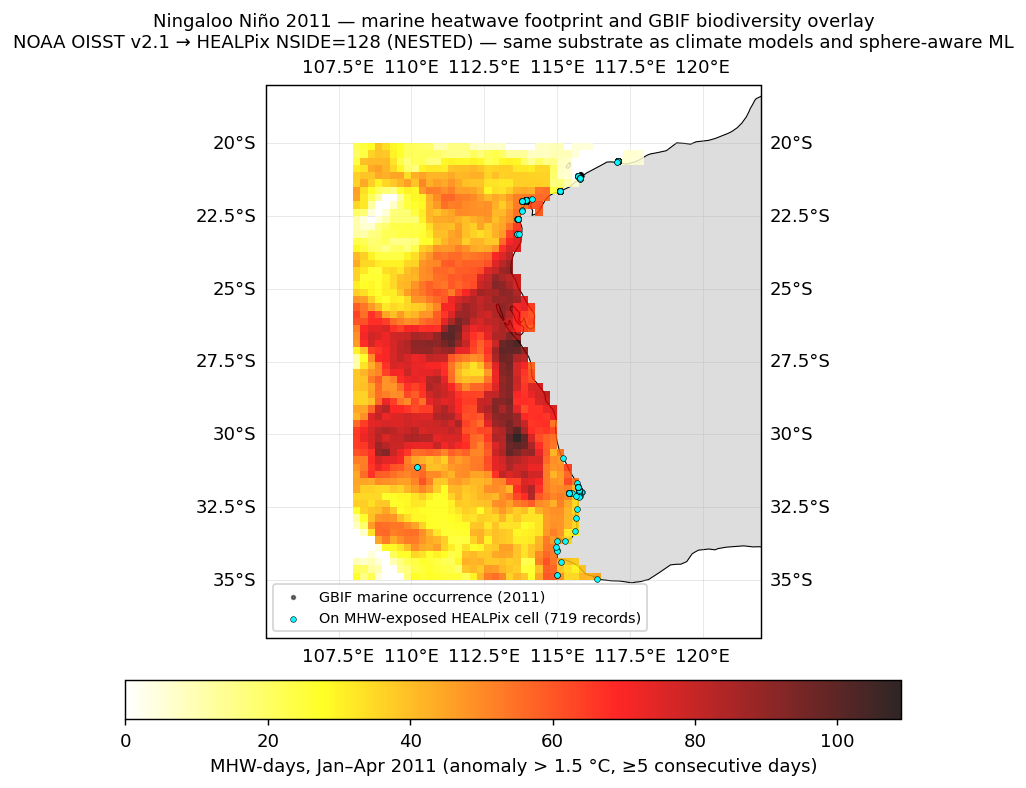
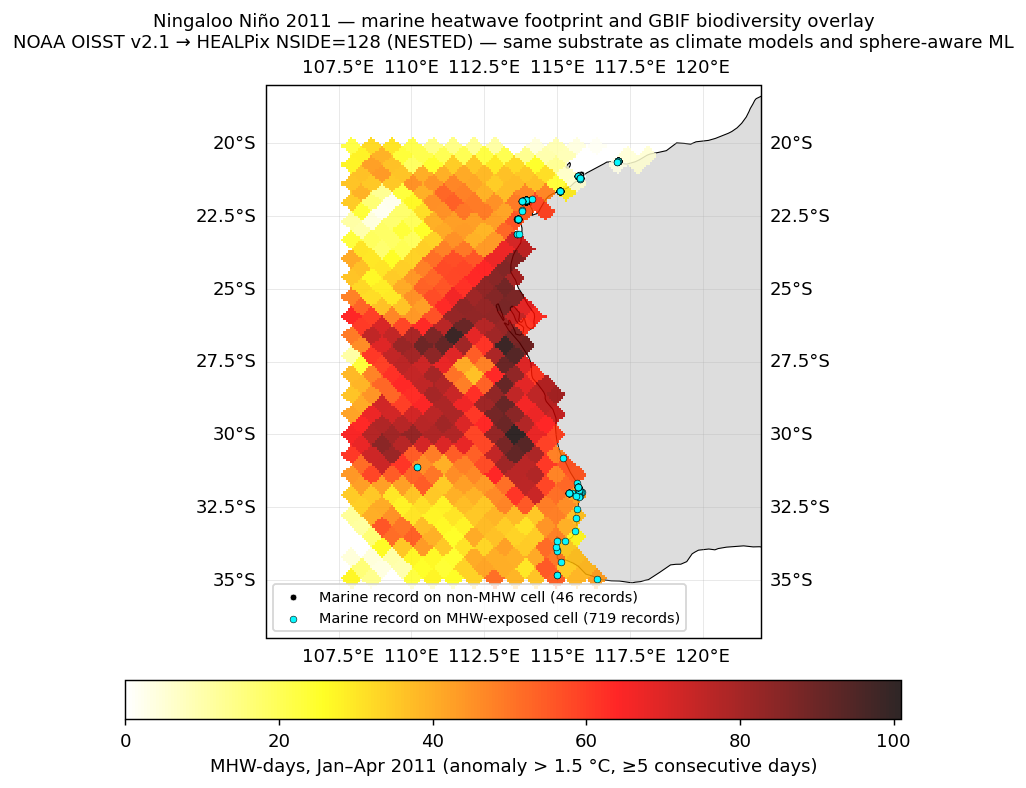
notebook 05: render second figure on the actual HEALPix substrate
Two related fixes Anne flagged:

(1) The second figure ("MHW footprint and GBIF biodiversity overlay")
was titled "NOAA OISST v2.1 -> HEALPix NSIDE=128 (NESTED)" but the
colour field was actually the OISST 0.25 deg lat-lon raster
(mhw_days_per_cell), not the HEALPix-aggregated field
(mhw_days_hp). Switch to the same hp.ang2pix high-res-mesh render
the first figure already uses, so each HEALPix cell stamps as a
discrete block and the visualisation honestly matches the title.

(2) The point legend was misleading. All 765 records were drawn as
small black dots in layer 1, then 719 of them were drawn over as
larger cyan dots in layer 2. The "GBIF marine occurrence (2011)"
legend entry implied an independent group; in fact the only black
dots actually visible were the 46 records on non-MHW cells. Split
into two mutually-exclusive groups so the legend counts add up to
the total: "Marine record on non-MHW cell (46 records)" +
"Marine record on MHW-exposed cell (719 records)".

diff --git a/notebooks/05_real_mhw_and_biodiversity.py b/notebooks/05_real_mhw_and_biodiversity.py
@@ -445,34 +445,40 @@ ax.add_feature(cfeature.LAND, facecolor="#dddddd", zorder=1)
 ax.add_feature(cfeature.COASTLINE, linewidth=0.6, zorder=2)
 ax.gridlines(draw_labels=True, linewidth=0.3, alpha=0.5)
 
-# Render the HEALPix MHW field as an image via healpy, then overlay it.
-# The simplest cross-projection rendering is a per-grid-cell pcolormesh on the
-# original SST lat-lon grid using the per-grid-cell mhw_days_per_cell field —
-# we already have that, and it lives 1-to-1 with HEALPix cells at this NSIDE.
-lon_plot = sst_2011.lon.values
-lat_plot = sst_2011.lat.values
-mhw_field = np.where(mhw_days_per_cell > 0, mhw_days_per_cell, np.nan)
+# Render the HEALPix MHW field — same approach as the first figure: sample
+# a high-resolution lat-lon mesh through `hp.ang2pix` so each HEALPix cell
+# stamps as a discrete block on the cartopy axis. This is the actual
+# HEALPix-aggregated field, not the OISST lat-lon raster.
+mhw_field_hd_overlay = mhw_days_hp[hp_idx_hd]
+mhw_field_hd_overlay = np.where(np.isnan(mhw_field_hd_overlay)
+                                  | (mhw_field_hd_overlay == 0),
+                                  np.nan, mhw_field_hd_overlay)
 cmesh = ax.pcolormesh(
-    lon_plot, lat_plot, mhw_field,
+    LON_HD, LAT_HD, mhw_field_hd_overlay,
     cmap="hot_r", shading="auto", vmin=0,
-    vmax=int(mhw_days_per_cell.max()) if mhw_days_per_cell.max() > 0 else 1,
+    vmax=float(np.nanmax(mhw_days_hp)),
     transform=ccrs.PlateCarree(), zorder=3, alpha=0.85,
 )
 plt.colorbar(cmesh, ax=ax, orientation="horizontal", shrink=0.7, pad=0.06,
              label="MHW-days, Jan–Apr 2011 (anomaly > 1.5 °C, ≥5 consecutive days)")
 
-# GBIF occurrences (convert lon back to -180-180 for plotting on PlateCarree)
+# GBIF occurrences (convert lon back to -180-180 for plotting on PlateCarree).
+# We split into two mutually-exclusive groups so the legend counts add up
+# correctly: records on MHW-exposed cells in cyan, records that did not
+# experience MHW conditions in black.
 plot_lon = np.where(occ_lon > 180, occ_lon - 360, occ_lon)
-ax.scatter(plot_lon, occ_lat,
-           s=4, c="black", alpha=0.5,
-           transform=ccrs.PlateCarree(), zorder=4, label="GBIF marine occurrence (2011)")
-
-# Highlight the MHW-exposed records in cyan
 exposed_mask = occ_df["mhw_days"].to_numpy() > 0
+n_exposed = int(exposed_mask.sum())
+n_unexposed = int(len(occ_df) - n_exposed)
+
+ax.scatter(plot_lon[~exposed_mask], occ_lat[~exposed_mask],
+           s=14, c="black", edgecolors="white", linewidths=0.4,
+           transform=ccrs.PlateCarree(), zorder=4,
+           label=f"Marine record on non-MHW cell ({n_unexposed} records)")
 ax.scatter(plot_lon[exposed_mask], occ_lat[exposed_mask],
-           s=10, c="#08F7FE", edgecolors="black", linewidths=0.3,
+           s=14, c="#08F7FE", edgecolors="black", linewidths=0.3,
            transform=ccrs.PlateCarree(), zorder=5,
-           label=f"On MHW-exposed HEALPix cell ({exposed_mask.sum()} records)")
+           label=f"Marine record on MHW-exposed cell ({n_exposed} records)")
 
 ax.legend(loc="lower left", fontsize=8)
 ax.set_title("Ningaloo Niño 2011 — marine heatwave footprint and GBIF biodiversity overlay\n"